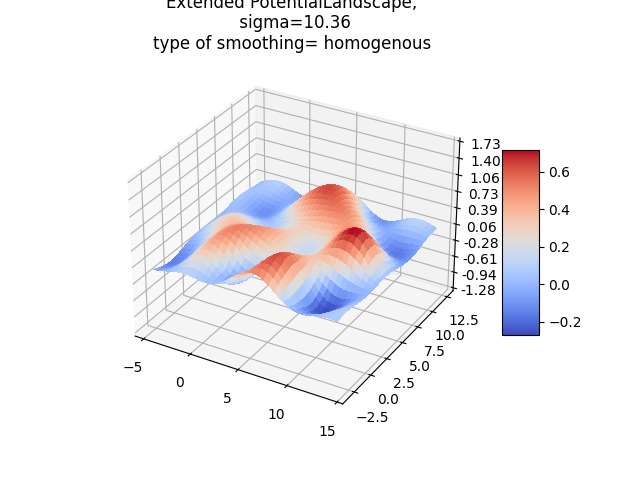
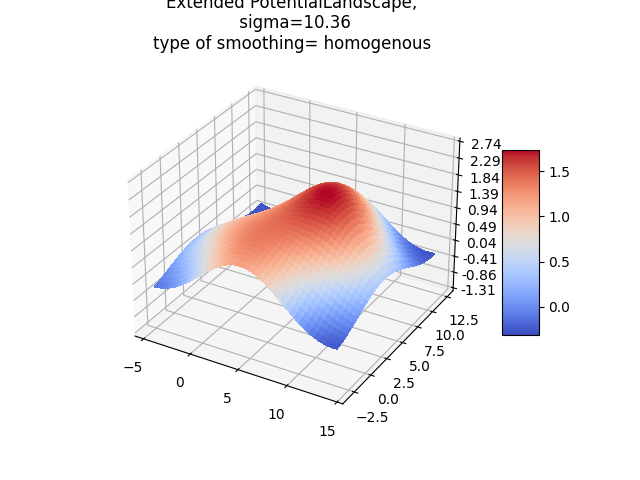
добавляю на картинку с прямоугольниками - середины многоугольников вороного, чьи прямоугольники слишком большие
строится extended potential
и тепловые карты

diff --git a/main.py b/main.py
@@ -16,6 +16,7 @@ from matplotlib import cm
 from matplotlib.ticker import LinearLocator
 import sys #для записи в файл
 from scipy.spatial import Delaunay #for tesselation and triangulation
+import seaborn as sns #for heatmap
 
 from sympy import *
 from VadimsCodeModified import get_rectangles_inside_voronoi,add_to_plot_voronoi_diagram,\
@@ -26,7 +27,7 @@ from potential_old_version import print_graph_matrix
 from statistics import median
 from create_text_files import print_potential_information
 from my_geometry import sample_area,median_distance,sigma_optimal_shi,centroid,create_rectsizes
-
+import pandas as pd
 
 #процедура вычисляющая наименьшее и наибольшее расстояние между точками
 def min_max_dist(Samples):
@@ -158,8 +159,9 @@ def smoothing_function_size_sinc(Samples,Values,x,y,RectSizes):
 
 
 #нарисуем гладкую картинку
-def draw_smooth_functiong_general(x0,x1,hx,y0,y1,hy,Samples,Values,N,type_of_smoothing,RectSizes,tit):#
+def draw_smooth_functiong_general(x0,x1,hx,y0,y1,hy,Samples,Values,N,type_of_smoothing,RectSizes,tit,show):#
     #tit - заглавие картинки
+    #show=true - процедура покажет картинку
     fig, ax = plt.subplots(subplot_kw={"projection": "3d"})
     plt.title(tit)
     # Диапазоны по оси X и Y:
@@ -177,8 +179,20 @@ def draw_smooth_functiong_general(x0,x1,hx,y0,y1,hy,Samples,Values,N,type_of_smo
             if type_of_smoothing == 'rectangles':
                 Z[t, l] = smoothing_function_size_sinc(Samples,Values,x0+l*hx,y0+t*hy,RectSizes)
     plot_surface(X, Y, Z,fig,ax)
-    #ax=sns.heatmap(Z,center=0,cmap='YlGnBu')
-    plt.show()
+    #ax=\
+    #fig, axs = plt.subplots(nrows=1, ncols=1)#, figsize=(5, 5), dpi=1000)#new
+
+    #sns.heatmap(Z,center=0,cmap='YlGnBu')
+
+    fig, axs = plt.subplots(nrows=1, ncols=1)#, figsize=(5, 5), dpi=1000)#new
+    axs.pcolormesh(X,Y,Z)
+    axs.set_frame_on(False)
+
+    if show:
+        plt.show()
+    return axs
+
+
 
 #процедура рисующая график плотности или потенциала
 def plot_density(s, x0, y0, x1, y1, h, sigma, D, type):
@@ -201,9 +215,9 @@ def plot_density(s, x0, y0, x1, y1, h, sigma, D, type):
 
 
 
-def add_to_plot_points(axs, points):
+def add_to_plot_points(axs, points,clr):
     for p in points:
-        axs.scatter(p[0],p[1],color='gold')
+        axs.scatter(p[0],p[1],color=clr)
 
 
 def plot_Delaunay(Samples):
@@ -319,7 +333,7 @@ def main():
     # #плотность
     x0,y0,x1,y1=sample_area(s)
     h=0.25 #шаг для построения картинок
-    N=1 #параметр для сглаживания
+    N=1/2 #параметр для сглаживания
     D=1 #параметр диффузии
 
     #mind, maxd = min_max_dist(s)
@@ -332,8 +346,8 @@ def main():
         #plot_density(s, x0, y0, x1, y1, h, sigma, D, 'boltzmann_potential_gaussian')
 
     sigma=sigma_optimal_shi(s)
-    plot_density(s, x0, y0, x1, y1, h, sigma, D, 'gaussian_density')
-    plot_density(s, x0, y0, x1, y1, h, sigma, D, 'boltzmann_potential_gaussian')
+    #plot_density(s, x0, y0, x1, y1, h, sigma, D, 'gaussian_density')
+    #plot_density(s, x0, y0, x1, y1, h, sigma, D, 'boltzmann_potential_gaussian')
 
     #построение и изображение диаграммы Вороного
     #draw_voronoi_diagramm(s)
@@ -358,7 +372,7 @@ def main():
     # quart=calc_rect_area_threshold(rectangles1,part_of_distr=0.75)#part_of_distr=0.75
     # print('quart', quart)
     added_points=add_points_to_big_areas(vor, rectangles, thresh_area)
-    add_to_plot_points(axs, added_points)
+    add_to_plot_points(axs, added_points,'gold')
 
     plt.savefig('voronoi_rect.png', format='png')
 
@@ -371,9 +385,12 @@ def main():
 
     # вычисление потенциала с помошью Лапласиана графа в точках samples и сглаживание
     PotentialVector = potential_calculation_on_graph(s, P, sigma)
-    draw_smooth_functiong_general(x0, x1, h, y0, y1, h, s, PotentialVector, N, 'homogenous',
+    ax=draw_smooth_functiong_general(x0, x1, h, y0, y1, h, s, PotentialVector, N, 'homogenous',
                                   RectSizes,
-                                  'Smooth PotentialLandscape,'+ '\n'+' sigma=' + str(np.around(sigma,2))+ '\n' + 'type of smoothing= homogenous')
+                                  'Smooth PotentialLandscape,'+ '\n'+' sigma=' + str(np.around(sigma,2))+ '\n' + 'type of smoothing= homogenous',false)
+    add_to_plot_points(ax,s,'black')
+    plt.show()
+
     #draw_smooth_functiong_general(x0, x1, h, y0, y1, h, s, PotentialVector, N, 'rectangles', RectSizes,
      #                             'Smooth PotentialLandscape, sigma=' + str(
       #                             sigma) + 'trype of smoothing= rectangles')
@@ -388,10 +405,12 @@ def main():
         added_values[i]=0.5#-added_densities[i]
     #added_values=np.ones(len(added_points))#положим значение потенциплп=1 во всех новых точках
     extended_s,extended_v=extended_point_set(s,added_points,PotentialVector,added_values)
-    draw_smooth_functiong_general(x0,x1,h,y0,y1,h,extended_s,extended_v,N,'homogenous',
+    ax=draw_smooth_functiong_general(x0,x1,h,y0,y1,h,extended_s,extended_v,N,'homogenous',
                                   RectSizes,
                                   'Extended PotentialLandscape,'+ '\n'+' sigma=' + str(np.around(sigma,2))+ '\n'
-                                  + 'type of smoothing= homogenous')
+                                  + 'type of smoothing= homogenous',false)
+    add_to_plot_points(ax, s, 'black')
+    plt.show()
 
 
 
